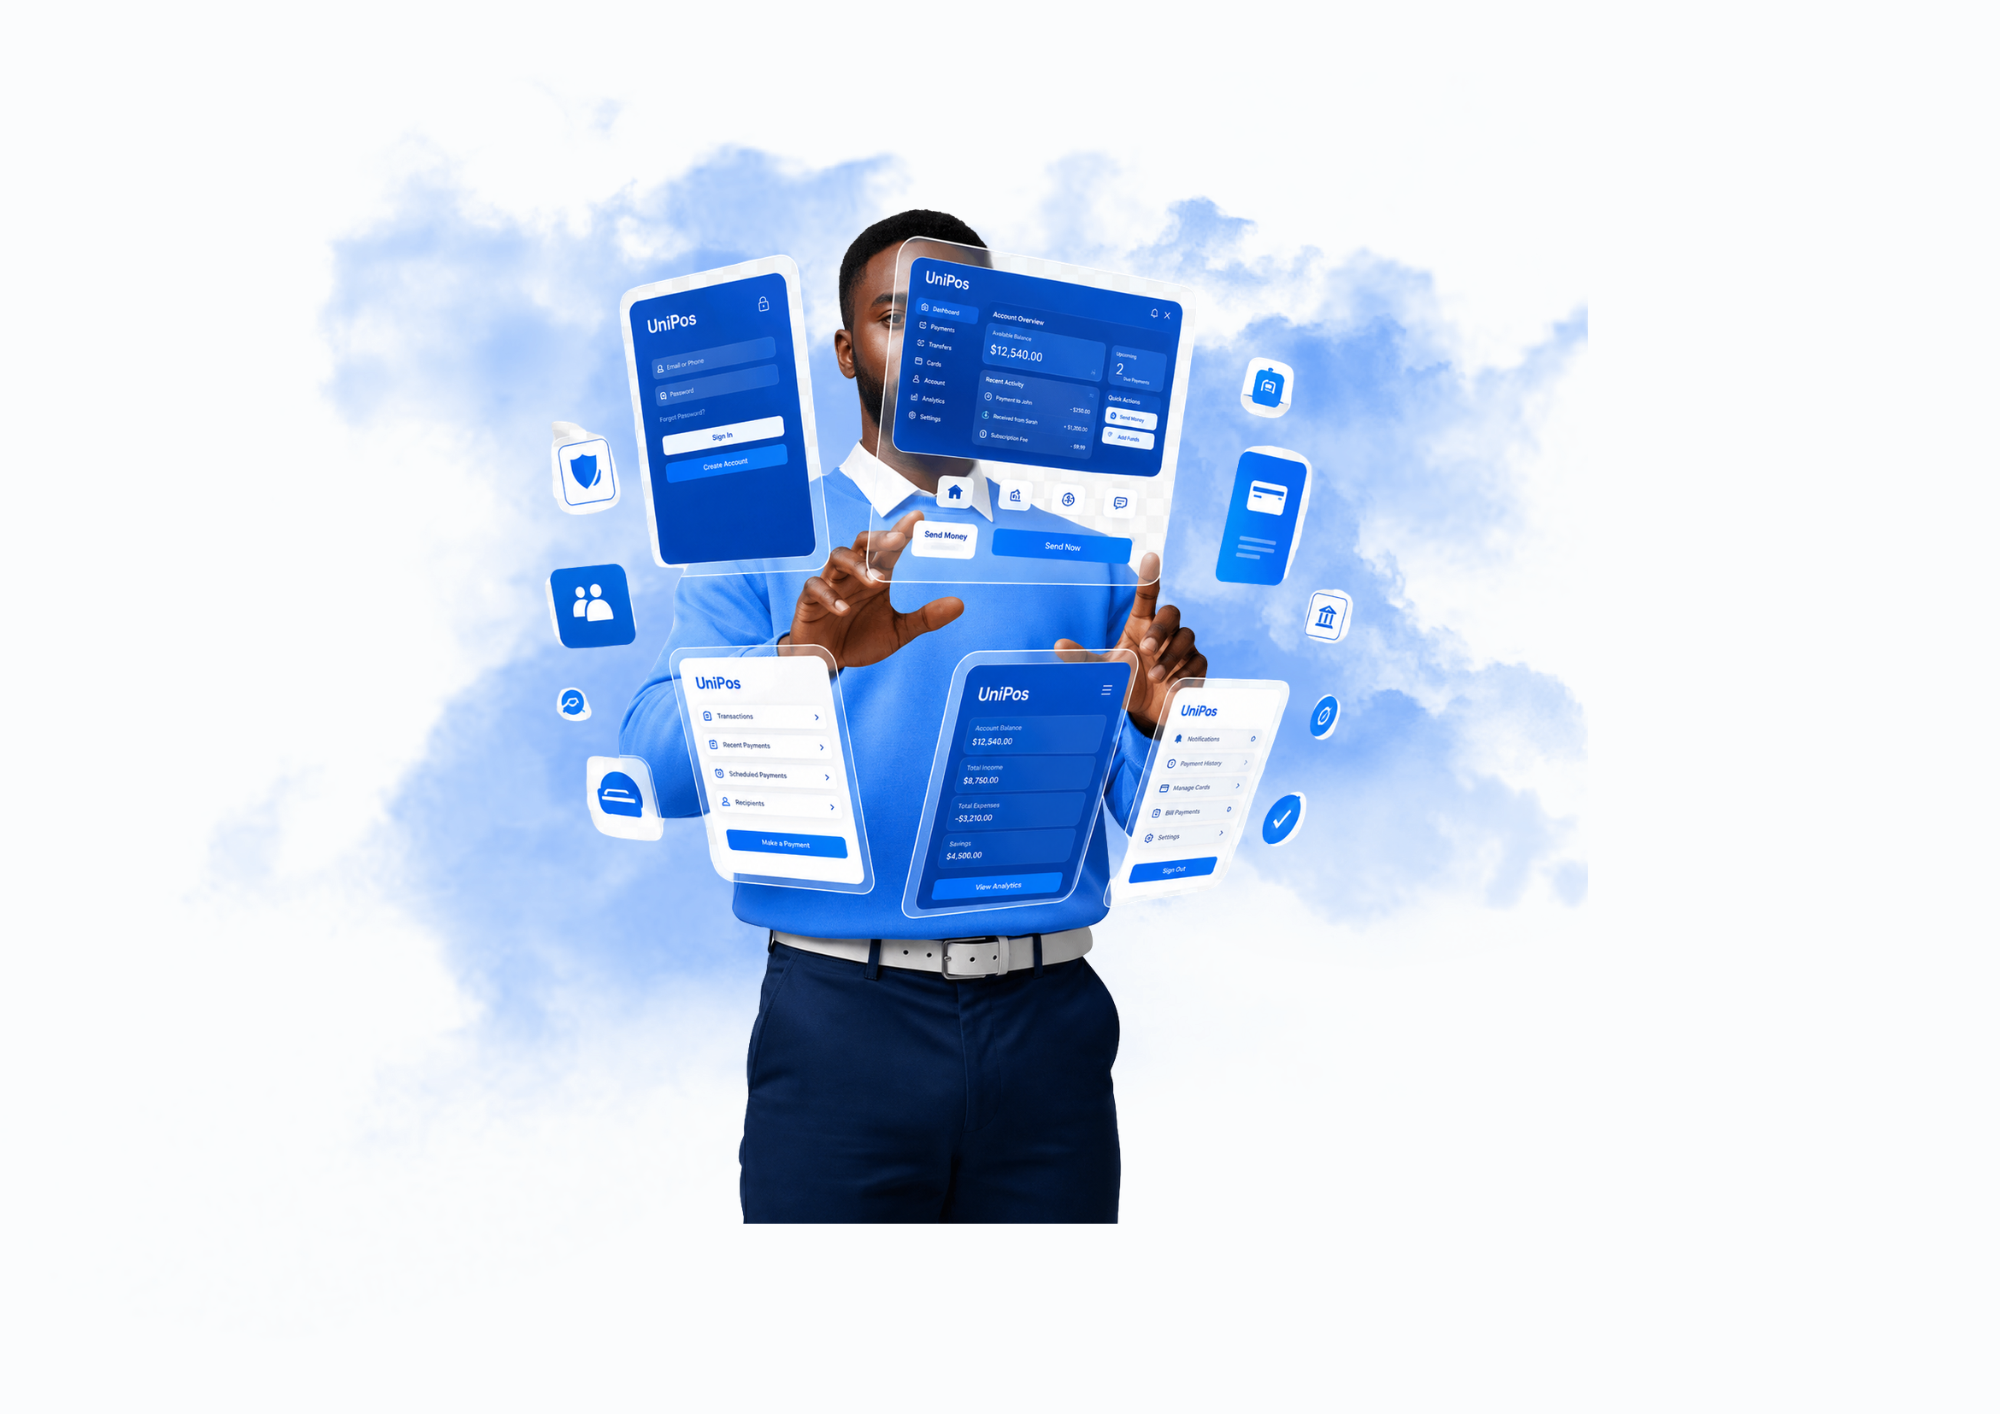
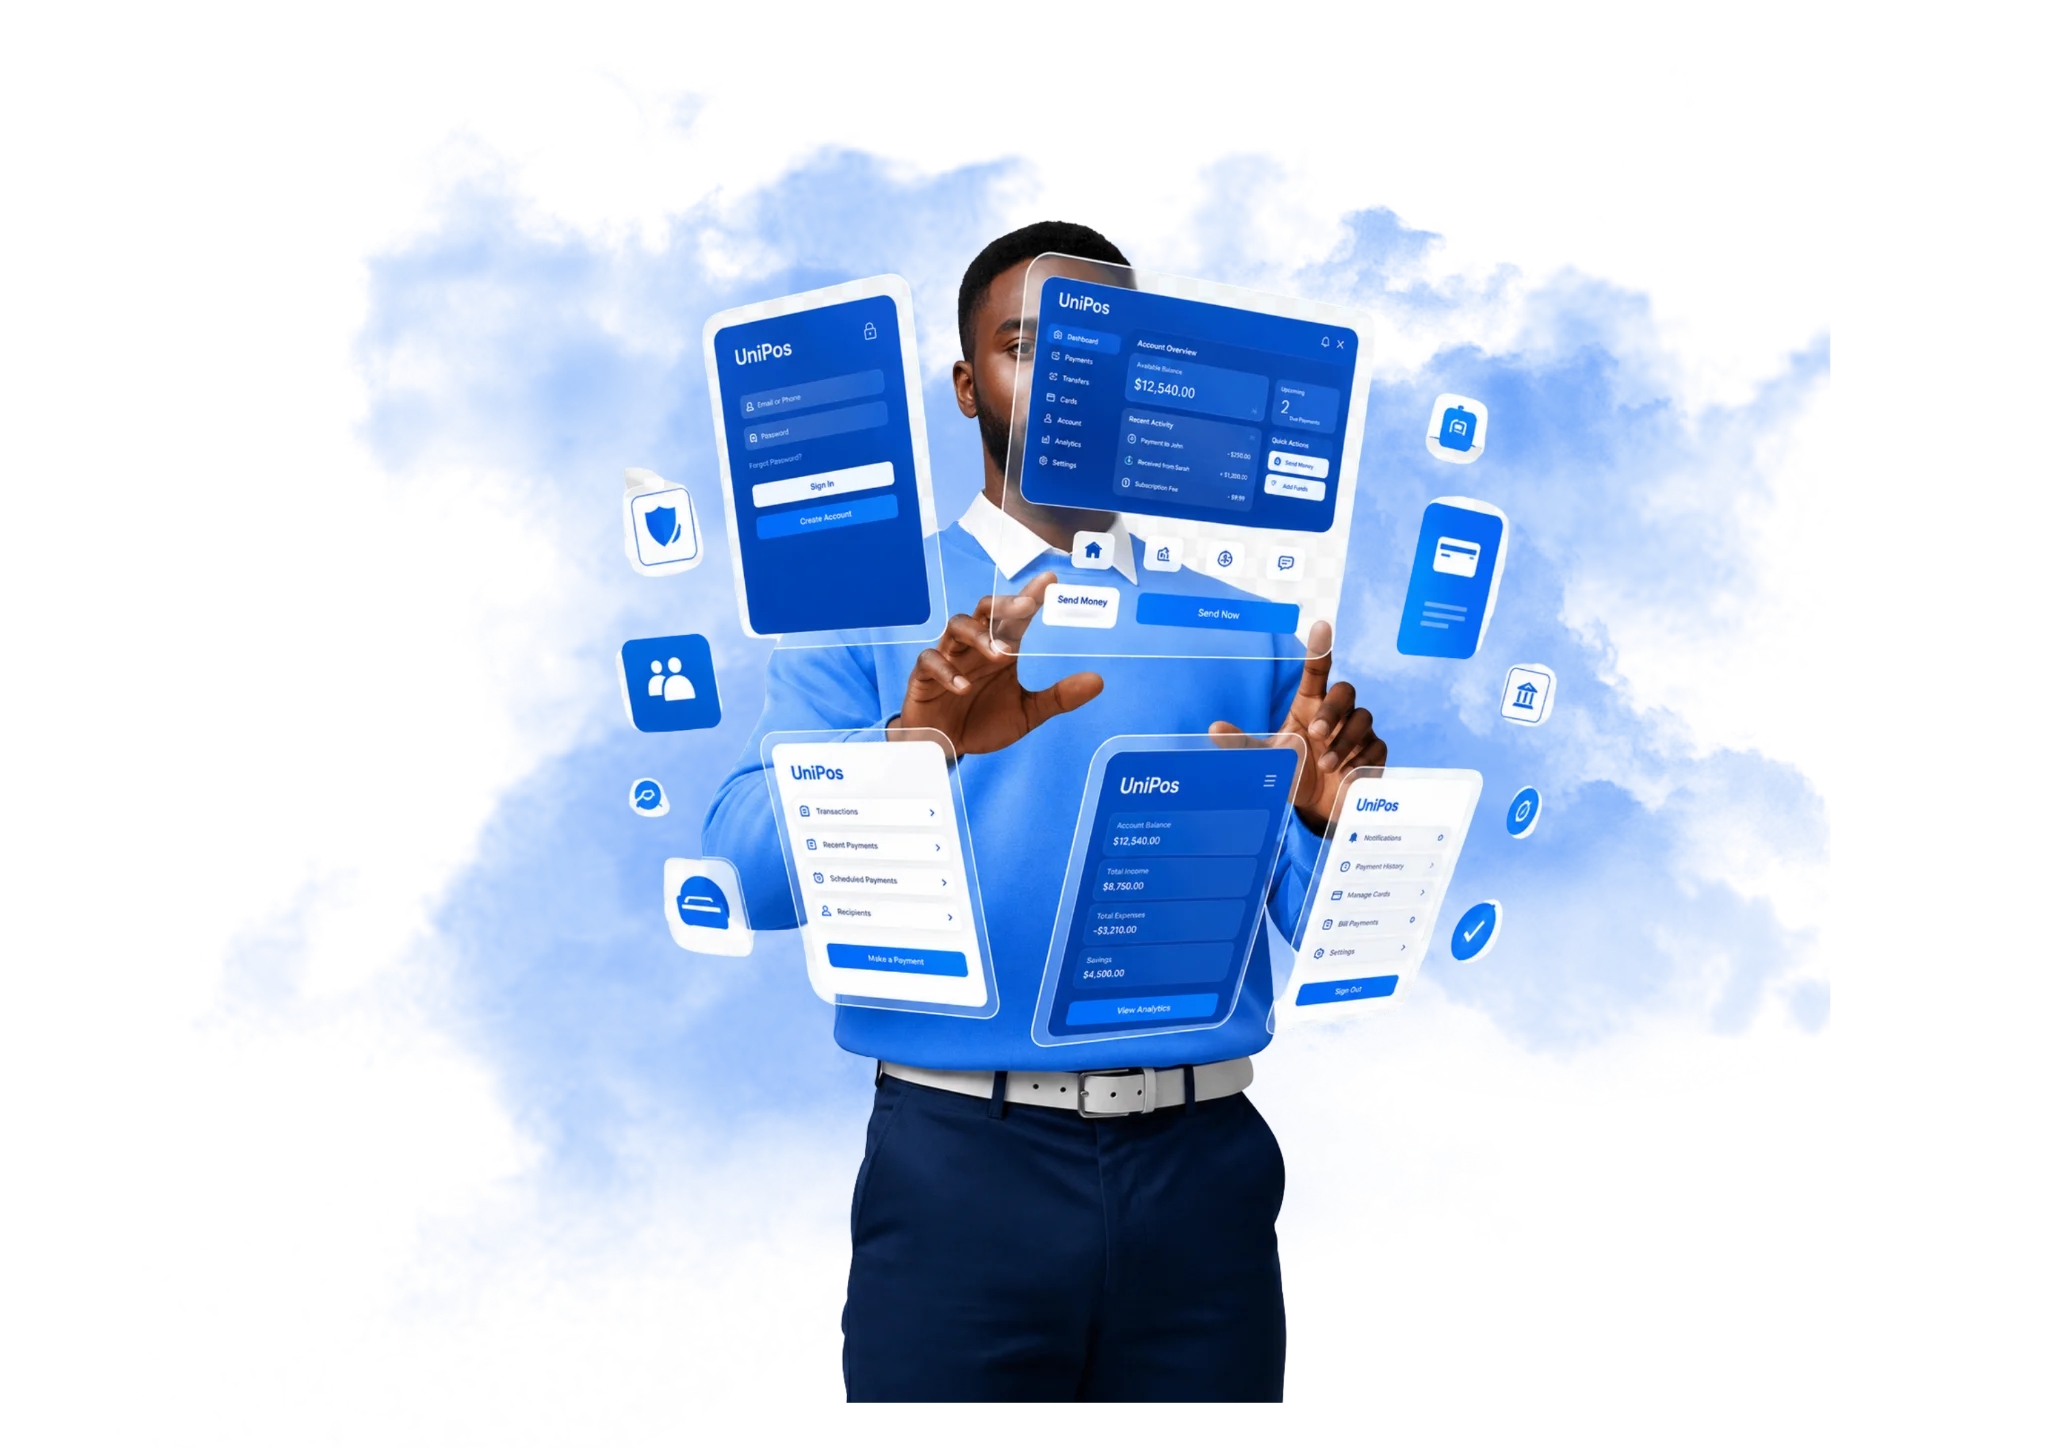
Add files via upload

diff --git a/src/app/signup/page.tsx b/src/app/signup/page.tsx
@@ -55,13 +55,13 @@ export default function SignupPage() {
     <div className="min-h-screen bg-white flex flex-col">
       {/* Main Content */}
       <div className="flex-1 flex">
-        {/* LEFT - 50% - Illustration (fills full left side) */}
-        <div className="hidden lg:flex lg:w-1/2 items-center justify-center overflow-hidden">
+        {/* LEFT - 50% - Illustration fills entire left side */}
+        <div className="hidden lg:flex lg:w-1/2 items-center justify-center overflow-hidden bg-white">
           <Image
             src="/assets/person-illustration.png"
             alt="UniPOS Dashboard"
-            width={500}
-            height={600}
+            width={800}
+            height={1000}
             className="w-full h-full object-cover"
             priority
           />
@@ -70,7 +70,7 @@ export default function SignupPage() {
         {/* RIGHT - 50% - Signup Form */}
         <div className="w-full lg:w-1/2 flex items-center justify-center px-6 sm:px-10">
           <div className="w-full max-w-md">
-            {/* Logo - Reduced by 5% (from h-12 to h-11.4, but we'll use h-11) */}
+            {/* Logo - Reduced by 5% */}
             <div className="flex justify-center mb-6">
               <Image
                 src="/assets/unipos-logo.png"
@@ -81,10 +81,10 @@ export default function SignupPage() {
               />
             </div>
 
-            {/* Heading - Same size as login page (text-3xl) */}
+            {/* Heading - Same size as login page */}
             <h1 className="text-3xl font-bold text-slate-900 text-center mb-2">Create Account</h1>
 
-            {/* Subheading - Same size as login page (text-sm) */}
+            {/* Subheading - Same size as login page */}
             <p className="text-sm text-slate-500 text-center mb-8">Sign up for your UniPOS Account</p>
 
             {/* Form */}

diff --git a/src/app/login/page.tsx b/src/app/login/page.tsx
@@ -58,14 +58,14 @@ export default function LoginPage() {
     <div className="min-h-screen bg-white flex flex-col">
       {/* Main Content */}
       <div className="flex-1 flex">
-        {/* LEFT - 50% - Illustration */}
-        <div className="hidden lg:flex lg:w-1/2 items-center justify-center">
+        {/* LEFT - 50% - Illustration fills entire left side */}
+        <div className="hidden lg:flex lg:w-1/2 items-center justify-center overflow-hidden bg-white">
           <Image
             src="/assets/person-illustration.png"
             alt="UniPOS Dashboard"
-            width={500}
-            height={600}
-            className="object-contain"
+            width={800}
+            height={1000}
+            className="w-full h-full object-cover"
             priority
           />
         </div>